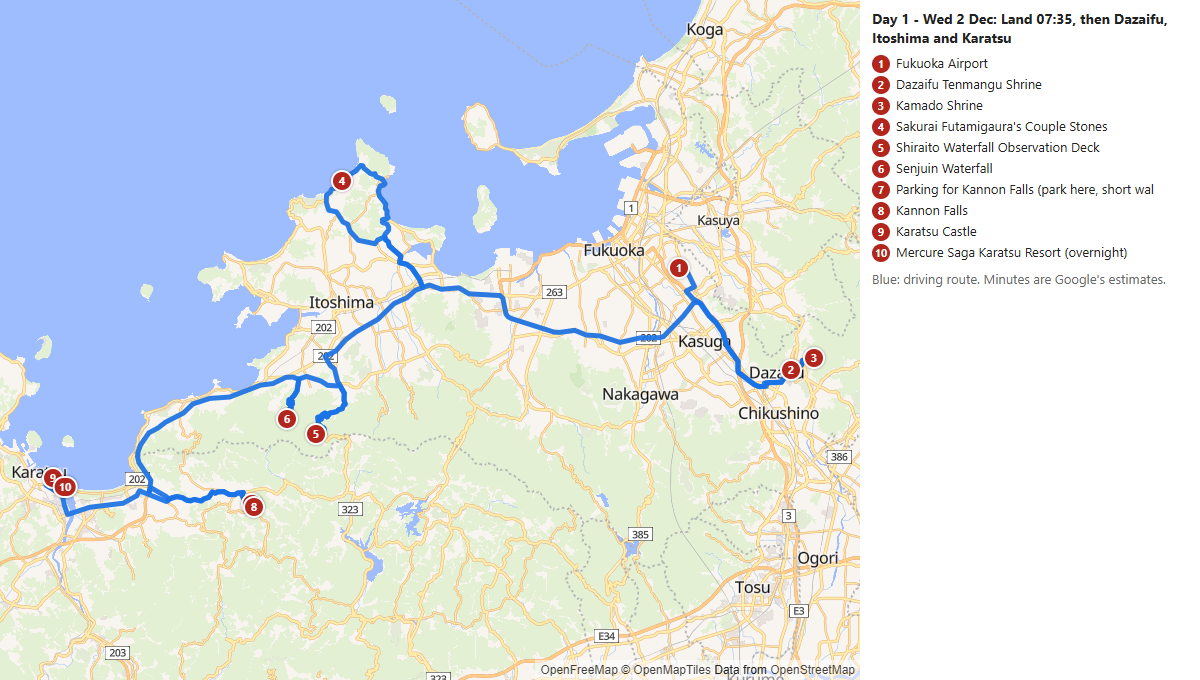
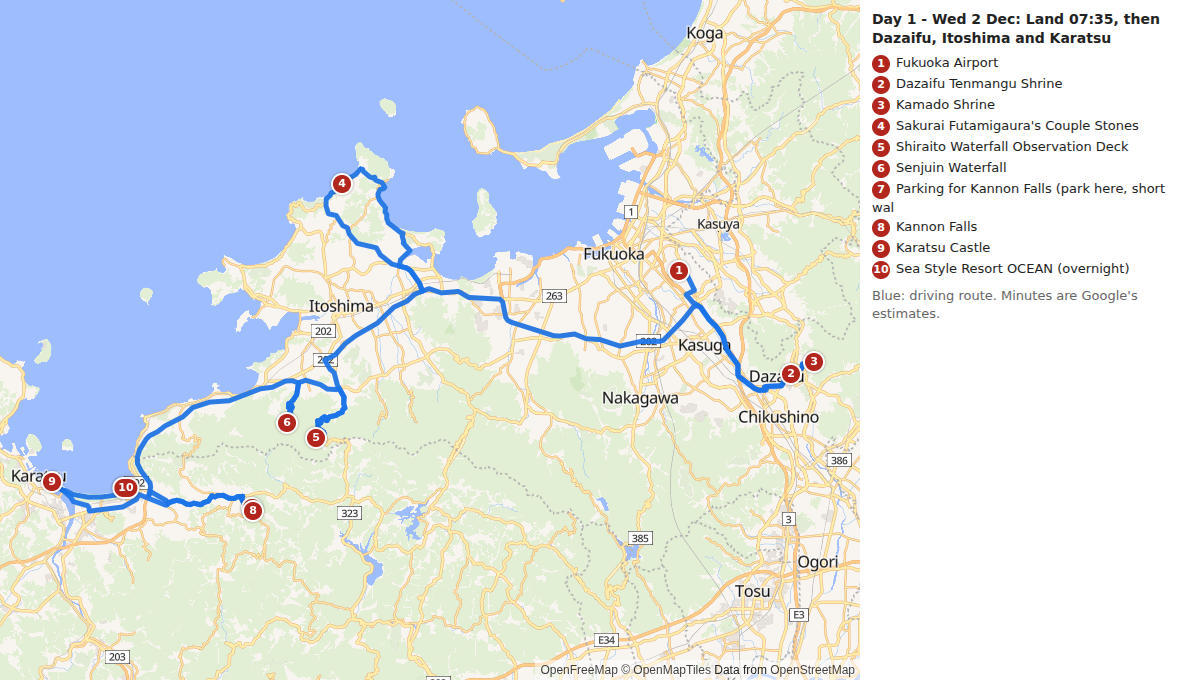
Route maps redrawn on the server with software WebGL (Days 1, 2 and 15)
Changelist:
- make_route_maps.py: when Edge or Chrome is missing, use Playwright full Chromium with SwiftShader software WebGL and a clean environment (the inherited environment was what broke WebGL before).
- Redrew the Day 1 and Day 2 maps (new hotel) and the Day 15 map (Nintendo Museum in Uji). The Route maps status light is green again.
- Docs: SERVICES.md, USER_GUIDE.md and CLAUDE.md describe how maps are drawn on a server.

Changed region(s): [[0.0, 0.0, 0.9867, 1.0], [0.3083, 0.1544, 0.3392, 0.1853], [0.0308, 0.4941, 0.0617, 0.525]]

diff --git a/index.html b/index.html
@@ -95,7 +95,7 @@ details.fold>summary h2{margin:0}details.fold[open]>summary{margin-bottom:10px}
 <a class="btn alt" href="TODO_before_the_trip.html">Read the to-do list</a><a class="btn alt" href="#tickets">Tickets and bookings</a><a class="btn alt" href="hotels.html">Hotels</a><a class="btn alt" href="food.html">Where to eat</a></div>
 <p class="meta">Road and traffic information: <a href="https://www.jartic.or.jp/" target="_blank" rel="noopener">JARTIC</a> (national traffic and closures), <a href="https://www.driveplaza.com/" target="_blank" rel="noopener">NEXCO Drive Plaza</a> (expressways, chain rules), <a href="https://www.northern-road.jp/" target="_blank" rel="noopener">Hokkaido road portal</a>. Every stop has its own live-traffic link. Opening hours are for the day you are there, from Google, and do not include public holidays: confirm on the official site.</p>
 <p class="meta">The shared checklist saves ticks and added items for everyone it is shared with (it opens on claude.ai and needs a sign-in).</p></details></section>
-<section class="prep live" id="live-updates"><details class="fold"><summary><h2>Live updates <span class="dot grey" id="live-sum" aria-hidden="true"></span></h2></summary><p class="meta"><span class="dot green"></span> updated in the last 24 hours &nbsp; <span class="dot orange"></span> 1 to 7 days ago &nbsp; <span class="dot red"></span> more than 7 days ago &nbsp; <span class="dot grey"></span> not run yet. These come from background services on the planning server; the light shows how long ago each last succeeded.</p><div class="tablewrap"><table class="live-table"><thead><tr><th></th><th>Service</th><th>Last success</th><th>Detail</th></tr></thead><tbody><tr class="live-row" data-key="bookings" data-ok="2026-10-15T18:21:49+00:00" data-ran="1"><td class="light"><span class="dot green" aria-hidden="true"></span></td><td class="lbl">Hotel booking emails</td><td class="age">updated 2026-10-15 18:21 UTC</td><td class="det">mailbox checked; 1 booking(s) on file</td></tr><tr class="live-row" data-key="sync" data-ok="2026-10-15T18:04:10+00:00" data-ran="1"><td class="light"><span class="dot green" aria-hidden="true"></span></td><td class="lbl">Itinerary and website sync</td><td class="age">updated 2026-10-15 18:04 UTC</td><td class="det">itinerary and site updated</td></tr><tr class="live-row" data-key="maps" data-ok="" data-ran="1"><td class="light"><span class="dot red" aria-hidden="true"></span></td><td class="lbl">Route maps</td><td class="age">never succeeded</td><td class="det">last run failed: route maps for day(s) 1, 2 could not be redrawn here (no WebGL); run make_route_maps.py on a machine with Edge or Chrome</td></tr><tr class="live-row" data-key="hours" data-ok="" data-ran="0"><td class="light"><span class="dot grey" aria-hidden="true"></span></td><td class="lbl">Opening hours</td><td class="age">not run yet</td><td class="det">has not run yet</td></tr><tr class="live-row" data-key="weather" data-ok="2026-10-15T17:58:17+00:00" data-ran="1"><td class="light"><span class="dot green" aria-hidden="true"></span></td><td class="lbl">Weather outlook</td><td class="age">updated 2026-10-15 17:58 UTC</td><td class="det">no trip day in the 16-day window yet (first day is in 48 days)</td></tr><tr class="live-row" data-key="reminders" data-ok="2026-10-15T18:22:03+00:00" data-ran="1"><td class="light"><span class="dot green" aria-hidden="true"></span></td><td class="lbl">Booking and cancellation reminders</td><td class="age">updated 2026-10-15 18:22 UTC</td><td class="det">11 due in the next 70 days; next: Book by Wed 11 Nov (27 days): Shinkansen Hakata-Hiroshima-Shin-Osaka (</td></tr><tr class="live-row" data-key="push" data-ok="2026-10-15T18:04:47+00:00" data-ran="1"><td class="light"><span class="dot green" aria-hidden="true"></span></td><td class="lbl">Publishing to GitHub</td><td class="age">updated 2026-10-15 18:04 UTC</td><td class="det">public site: up to date; project: up to date</td></tr><tr class="live-row" data-key="health" data-ok="2026-10-15T18:04:47+00:00" data-ran="1"><td class="light"><span class="dot green" aria-hidden="true"></span></td><td class="lbl">Health checks</td><td class="age">updated 2026-10-15 18:04 UTC</td><td class="det">all 7 checks ok</td></tr></tbody></table></div><h3>Weather outlook</h3><p class="meta">Forecasts open about 16 days before each trip day; none yet.</p></details></section>
+<section class="prep live" id="live-updates"><details class="fold"><summary><h2>Live updates <span class="dot grey" id="live-sum" aria-hidden="true"></span></h2></summary><p class="meta"><span class="dot green"></span> updated in the last 24 hours &nbsp; <span class="dot orange"></span> 1 to 7 days ago &nbsp; <span class="dot red"></span> more than 7 days ago &nbsp; <span class="dot grey"></span> not run yet. These come from background services on the planning server; the light shows how long ago each last succeeded.</p><div class="tablewrap"><table class="live-table"><thead><tr><th></th><th>Service</th><th>Last success</th><th>Detail</th></tr></thead><tbody><tr class="live-row" data-key="bookings" data-ok="2026-10-15T18:31:55+00:00" data-ran="1"><td class="light"><span class="dot green" aria-hidden="true"></span></td><td class="lbl">Hotel booking emails</td><td class="age">updated 2026-10-15 18:31 UTC</td><td class="det">mailbox checked; 1 booking(s) on file</td></tr><tr class="live-row" data-key="sync" data-ok="2026-10-15T18:04:10+00:00" data-ran="1"><td class="light"><span class="dot green" aria-hidden="true"></span></td><td class="lbl">Itinerary and website sync</td><td class="age">updated 2026-10-15 18:04 UTC</td><td class="det">itinerary and site updated</td></tr><tr class="live-row" data-key="maps" data-ok="2026-10-15T18:39:59+00:00" data-ran="1"><td class="light"><span class="dot green" aria-hidden="true"></span></td><td class="lbl">Route maps</td><td class="age">updated 2026-10-15 18:39 UTC</td><td class="det">redrawn for day(s) 1, 2, 15 with software WebGL on the server</td></tr><tr class="live-row" data-key="hours" data-ok="" data-ran="0"><td class="light"><span class="dot grey" aria-hidden="true"></span></td><td class="lbl">Opening hours</td><td class="age">not run yet</td><td class="det">has not run yet</td></tr><tr class="live-row" data-key="weather" data-ok="2026-10-15T17:58:17+00:00" data-ran="1"><td class="light"><span class="dot green" aria-hidden="true"></span></td><td class="lbl">Weather outlook</td><td class="age">updated 2026-10-15 17:58 UTC</td><td class="det">no trip day in the 16-day window yet (first day is in 48 days)</td></tr><tr class="live-row" data-key="reminders" data-ok="2026-10-15T18:22:03+00:00" data-ran="1"><td class="light"><span class="dot green" aria-hidden="true"></span></td><td class="lbl">Booking and cancellation reminders</td><td class="age">updated 2026-10-15 18:22 UTC</td><td class="det">11 due in the next 70 days; next: Book by Wed 11 Nov (27 days): Shinkansen Hakata-Hiroshima-Shin-Osaka (</td></tr><tr class="live-row" data-key="push" data-ok="2026-10-15T18:30:08+00:00" data-ran="1"><td class="light"><span class="dot green" aria-hidden="true"></span></td><td class="lbl">Publishing to GitHub</td><td class="age">updated 2026-10-15 18:30 UTC</td><td class="det">public site: up to date; project: up to date</td></tr><tr class="live-row" data-key="health" data-ok="2026-10-15T18:28:35+00:00" data-ran="1"><td class="light"><span class="dot green" aria-hidden="true"></span></td><td class="lbl">Health checks</td><td class="age">updated 2026-10-15 18:28 UTC</td><td class="det">all 7 checks ok</td></tr></tbody></table></div><h3>Weather outlook</h3><p class="meta">Forecasts open about 16 days before each trip day; none yet.</p></details></section>
 <details class="how" id="how"><summary>How this plan was built</summary><p>Drive times from the Google Routes API (no live traffic); time on site is my estimate. Route links open in Google Maps and include every stop for the day. Highway % is computed from step speeds in the Routes API (&gt;= 70 km/h); terrain tags (mountain, coastal, plains, hills, scenic, urban) are my judgement of the road leading to each stop.</p></details>
 <section class="plain" id="fixed-dates"><details class="fold"><summary><h2>Fixed dates</h2></summary><p><strong>Outbound flight, Tue 1 - Wed 2 Dec 2026 (Vietnam Airlines, 3 passengers, 1st checked bag up to 23 kg each):</strong></p>
 <ul><li>VN 656: Singapore Changi (SIN) T3 departs 20:45 Tue 1 Dec -&gt; Ho Chi Minh City (SGN) T2, arrives 22:00</li><li>VN 350: Ho Chi Minh City (SGN) T2 departs 00:45 Wed 2 Dec -&gt; Fukuoka (FUK) Terminal I, arrives <strong>07:35</strong> (2 h 45 min layover; all times local)</li><li>Day 1 assumes about 2 hours from landing to leaving the airport in the rental car (immigration, baggage, pickup), so the first stop is at about 10:10.</li></ul>
